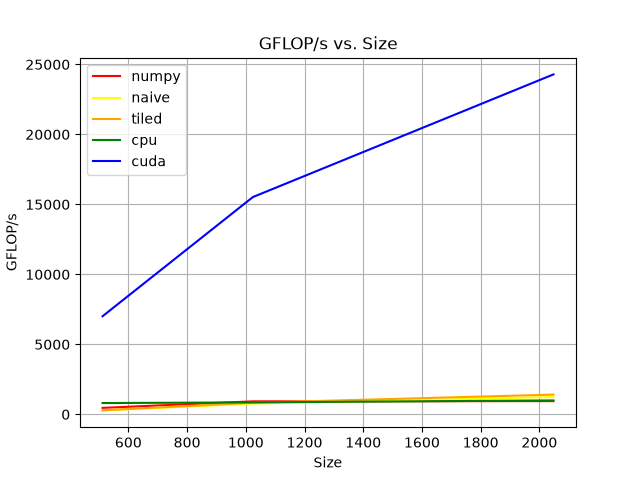
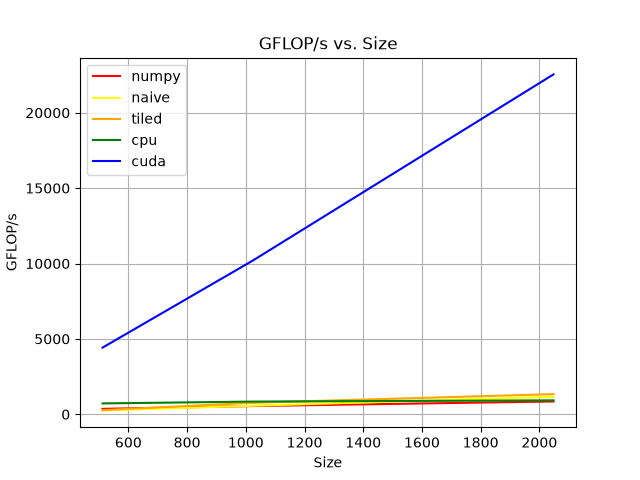
Polish CUDA matmul benchmark repo

diff --git a/benchmarks/benchmark_all.py b/benchmarks/benchmark_all.py
@@ -63,7 +63,7 @@ def multiply_matrices(a, b):
 a = np.random.rand(128, 128)
 b = np.random.rand(128, 128)
 
-pure = harness(100, 20, multiply_matrices, a, b)
+pure = harness(3, 5, multiply_matrices, a, b)
 
 sizes = [512, 1024, 2048]
 
@@ -77,7 +77,7 @@ rng = np.random.default_rng(42)
 for size in sizes:
     m_np1 = rng.random((size, size)).astype(np.float32)
     m_np2 = rng.random((size, size)).astype(np.float32)
-    numpy = harness(100, 20, np.matmul, m_np1, m_np2)
+    numpy = harness(3, 10, np.matmul, m_np1, m_np2)
     numpy_median = numpy[0]
     numpy_min = numpy[1]
     numpy_gflops = 2 * size**3 / numpy_median / 1e9
@@ -86,7 +86,7 @@ for size in sizes:
 
     m_naive1 = m_np1
     m_naive2 = m_np2
-    naive = harness(100, 20, matmul_naive, m_naive1, m_naive2)
+    naive = harness(3, 10, matmul_naive, m_naive1, m_naive2)
     naive_median = naive[0]
     naive_min = naive[1]
     naive_gflops = 2 * size**3 / naive_median / 1e9
@@ -95,7 +95,7 @@ for size in sizes:
 
     m_tiled1 = m_np1
     m_tiled2 = m_np2
-    tiled = harness(100, 20, matmul_tiled, m_tiled1, m_tiled2)
+    tiled = harness(3, 10, matmul_tiled, m_tiled1, m_tiled2)
     tiled_median = tiled[0]
     tiled_min = tiled[1]
     tiled_gflops = 2 * size**3 / tiled_median / 1e9
@@ -104,7 +104,7 @@ for size in sizes:
 
     m_th_cpu1 = torch.from_numpy(m_np1)
     m_th_cpu2 = torch.from_numpy(m_np2)
-    cpu = harness(100, 20, torch.matmul, m_th_cpu1, m_th_cpu2)
+    cpu = harness(3, 10, torch.matmul, m_th_cpu1, m_th_cpu2)
     cpu_median = cpu[0]
     cpu_min = cpu[1]
     cpu_gflops = 2 * size**3 / cpu_median / 1e9
@@ -113,7 +113,7 @@ for size in sizes:
 
     m_th_cuda1 = m_th_cpu1.to('cuda')
     m_th_cuda2 = m_th_cpu2.to('cuda')
-    cuda = harness(100, 20, torch.matmul, m_th_cuda1, m_th_cuda2, sync=True)
+    cuda = harness(3, 10, torch.matmul, m_th_cuda1, m_th_cuda2, sync=True)
     cuda_median = cuda[0]
     cuda_min = cuda[1]
     cuda_gflops = 2 * size**3 / cuda_median / 1e9

diff --git a/README.md b/README.md
@@ -104,3 +104,9 @@ A future version will use CUDA events and Nsight profiling to separate memory al
 - Add non-square matrix tests for general M x K times K x N multiplication.
 - Compare the CUDA kernels against a Triton implementation.
 - Implement a more optimized tiled kernel using register blocking and larger tile sizes.
+
+## Profiling Note
+
+I ran a preliminary Nsight Systems pass to inspect the benchmark timeline. The trace confirmed that the custom CUDA path includes more than kernel execution: each call also includes device memory allocation, host-to-device copies, device-to-host copies, and synchronization. This supports treating the current custom CUDA timings as end-to-end wrapper measurements rather than isolated kernel measurements.
+
+Future profiling work will use CUDA events and Nsight Compute to separate kernel execution time from memory movement and inspect occupancy, memory throughput, and shared-memory behavior.